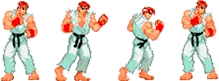
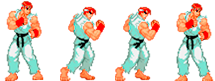
correcoes no walk da personagem 2

diff --git a/static/script/PreloadGame.js b/static/script/PreloadGame.js
@@ -53,7 +53,7 @@ class PreloadGame extends Phaser.Scene {
     this.load.image('f1_proj', 'static/img/fighters/fighter1_proj.png')
 
     // Fighter 2
-    this.load.spritesheet('f2_w', 'static/img/fighters/2_walk.png', {frameWidth: 54.75, frameHeight: 81})
+    this.load.spritesheet('f2_w', 'static/img/fighters/2_walk.png', {frameWidth: 53.75, frameHeight: 81})
     this.load.spritesheet('f2_jump', 'static/img/fighters/2_jump.png', {frameWidth: 42.75, frameHeight: 86})
     this.load.spritesheet('f2_atck', 'static/img/fighters/2_attack1.png', {frameWidth: 56.6, frameHeight: 80})
     this.load.spritesheet('f2_fire', 'static/img/fighters/2_attack2.png', {frameWidth: 66, frameHeight: 80})
